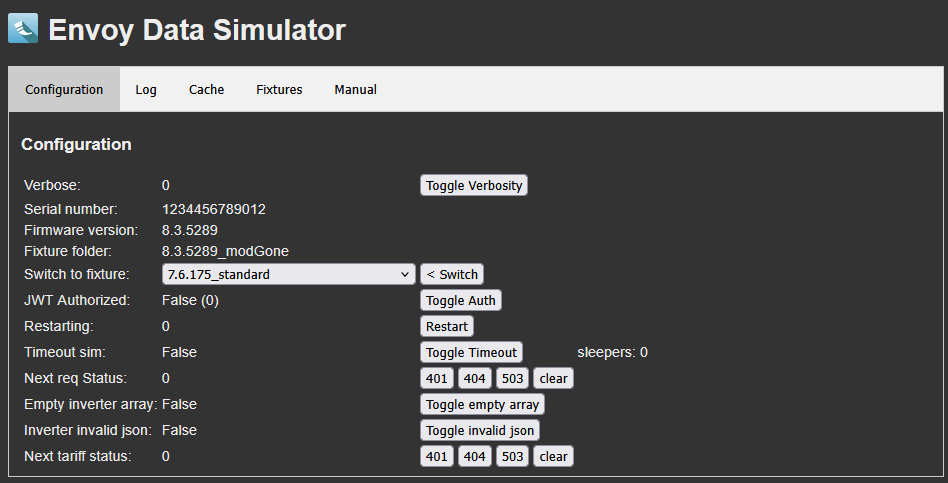
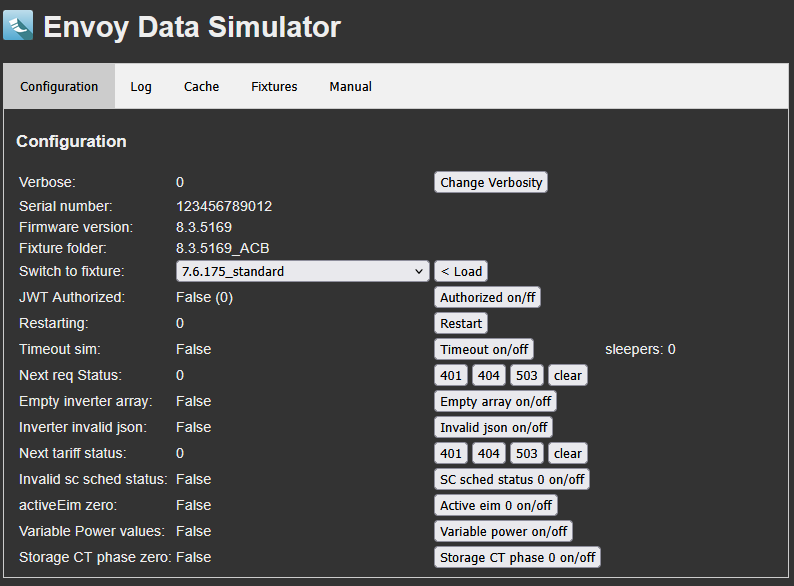
improves docs and fix some typos

Changed region(s): [[0.0, 0.0, 0.9975, 0.9938], [0.4232, 0.2795, 0.6952, 0.4037], [0.7557, 0.5901, 0.8463, 0.6211]]

diff --git a/src/templates/index.html b/src/templates/index.html
@@ -75,7 +75,7 @@
                     <tr>
                         <td>JWT Authorized:</td>
                         <td id="authorized_value">{{ sim.authorized() }} ({{ sim.auth_count }})</td>
-                        <td><button id="btnauthorize" class="sendid" title="Toggle authorized on/off">Authorized on/ff</button></td>
+                        <td><button id="btnauthorize" class="sendid" title="Toggle authorized on/off">Authorized on/off</button></td>
                     </tr>
                     <!-- Envoy restarting simulation, counter to completion and button to toggle on/off-->
                     <tr>

diff --git a/README.md b/README.md
@@ -13,7 +13,7 @@ The simulator in no way resembles any internal part of a physical Envoy, but rat
 
 The provided data is static, as read from the fixture files. Fixture file data is loaded into the internal data model. Any PUT or POST data is updating the internal data model and returned in a subsequent GET requests. The data is reset to fixture file content at restart of the simulator or load of a different fixture file set.
 
-The simulator has logic for various test scenarios, all added as the need was there. These can be controlled from the [UI](#ui).
+The simulator has logic for various test scenarios, all added as the need was there. These can be controlled from the [UI](#ui). The test scenarios either change the data in the internal data model or modify it before returning it as request response.
 
 [Back to content](#content)
 
@@ -108,7 +108,7 @@ Which fixture files need to be in a fixture file set is fully driven by what you
 
 ### Certificate
 
-The simulator is accessible via https, like the physical Envoy device. By default is uses ad-hoc ssl-context which creates a self-signed certificate at each startup. That will work fine for the API and testing, provided your code does not verify the server certificate.
+The simulator is accessible via https, like the physical Envoy device. By default it uses ad-hoc ssl-context which creates a self-signed certificate at each startup. That will work fine for the API and testing, provided your code does not verify the server certificate.
 
 The simulator also provides a [user interface](#ui) at `/` with the same ssl context. This will cause your browser to kick-in and report a security issue after each (re-)start of the container.
 
@@ -122,7 +122,7 @@ openssl req -x509 -newkey rsa:4096 -nodes -out cert.pem -keyout key.pem -days 36
 
 # UI
 
-The simulator offers a user interface accessible with your browser at the configured ip address. It provides options to configure the use of the simulator, view logs and inspect data in the internal data model or the actual fixture files. These are accessible in the tabs on the main page.
+The simulator offers a user interface accessible with your browser at the configured ip address. The UI provides options to configure the use of the simulator, view logs, inspect data in the internal data model or the actual fixture files.
 
 ## Configuration
 
@@ -134,11 +134,11 @@ Provides status and options to select for the running simulator.
 
 | Item | Description | Notes |
 |------|-------------|-------|
-| Verbose | Verbosity level for log tab from 0-2 | Use the `toggle verbosity` button to change it |
-| Serial number | Envoy serial number in use | Default or as set in environment variables |
+| Verbose | Verbosity level for log tab from 0-2 | Use the `Change verbosity` button to change it |
+| Serial number | Envoy serial number in use | Default or as set in environment variables, if not specified from the fixture file `info` |
 | Firmware version | Envoy firmware version as found in the fixture file `info` | |
-| Fixture folder | Current active fixture fileset folder | As set in environment variables or manualy changed |
-| Switch to fixture | Select a new fixture file set to use | Select fileset from pulldown and use `Switch` button to activate it. Simulator will reload with new fixture data. |
+| Fixture folder | Current active fixture fileset folder | As set in environment variables or manualy selected |
+| Switch to fixture | Select a new fixture file set to use | Select fileset from pulldown and use `Load` button to activate it. Simulator will reload with new fixture data. |
 
 ### Manual simulations
 
@@ -146,23 +146,23 @@ These allow manual control to simulate specific behavior to be tested.
 
 | Item | Description | Notes |
 |------|-------------|-------|
-| JWT Authorized | Shows the JWT endpoint was used.| Only `/info` and `/home` endpoints can be accessed withouth authorization. For other endpoint API client must authorize with /auth/check_jwt. Use it to test unauthorized state.|
-| Restarting | If non-zero a restart simulation is active.| The value is how many client requests are still needed to end a restarting simulation. Use the `restart` button to (de-)activate a restart. |
-| Timeout sim | Will delay any reply by 5 minutes thus effectively triggering request timeouts. | Use the `Timeout on/off` button to (de-)activate. The sleepers count shows how many requests are in this state. |
+| JWT Authorized | Shows the JWT endpoint was used.| Only `/info` and `/home` endpoints can be accessed withouth authorization. For other endpoint API client must authorize with /auth/check_jwt. Use it to force unauthorized state.|
+| Restarting | If non-zero a restart simulation is active and status 500 is returned| The value is how many client requests are still needed to end a restarting simulation. Use the `Restart` button to (de-)activate a restart. |
+| Timeout sim | Will delay any reply by 5 minutes thus effectively resulting in client request timeouts. | Use the `Timeout on/off` button to (de-)activate. The sleepers count shows how many requests are in this state. |
 | Next req Status | Force selected status on all requests. | Use the `401`, `404` , `503` buttons to select a status to use and `clear` to end status forcing. |
-| Empty Inverter Array | Return an empty inverter array for /api/v1/production/inverters endpoint requests. | Use `Empty array on/off` button to (de-)activate. |
-| Inverter Invalid json | Return malformed inverter json for /api/v1/production/inverters endpoint. | Use `Invalid json on/off` button to (de-)activate. |
+| Empty Inverter Array | Return an empty inverter array for /api/v1/production/inverters requests. | Use `Empty array on/off` button to (de-)activate. |
+| Inverter Invalid json | Return malformed inverter json for /api/v1/production/inverters requests. | Use `Invalid json on/off` button to (de-)activate. |
 | Next tariff Status | Force selected status for /lib/admin/tariff endpoint requests. | Use the `401`, `404` , `503` buttons to select a status to use and `clear` to end status forcing. |
-| Sc sched invalid status | Return an invalid status 0 for /ivp/sc/sched endpoint requests. | Use `SC sched status 0` button to (de-)activate. |
-| ActiveEim zero | Return Production activeCount = 0 for type=eim for /production endpoint requests.| Use `Active eim 0 on/off` button to (de-)activate. |
-| Variable Power | Return power values with some variations for some endpoint requests, see [Power variations](#power-variations). | Use `Variable Power on/off` button to (de-)activate. |
-| Storage CT phase zero | Return zero phase 1 data for storage CT for /ivp/meters/readings endpoint requests. | Use `Storage CT phase 0 on/off` button to (de-)activate. |
+| invalid sc sched status | Return an invalid status 0 for /ivp/sc/sched endpoint requests. | Use `SC sched status 0 on/off` button to (de-)activate. |
+| ActiveEim zero | Return Production type=eim activeCount = 0 for /production requests.| Use `Active eim 0 on/off` button to (de-)activate. |
+| Variable Power | Return power values with some variations for some requests, see [Power variations](#power-variations). | Use `Variable Power on/off` button to (de-)activate. |
+| Storage CT phase zero | Return storage CT zero phase 1 data for /ivp/meters/readings requests. | Use `Storage CT phase 0 on/off` button to (de-)activate. |
 
 ### Build-in simulations
 
 #### Power variations
 
-To test with varying data, power values can be simulated by varyfing them randomly between 50 and 150 % of their value on each read. Values changed are:
+To test with varying data, power values can be varied randomly between 50 and 150 % of their value on each read. Values changed are:
 
 - /production wNow value of aggregated and phases production (type=eim)
 - /ivp/meters/readings activePower value of aggregated and phases of all meters
